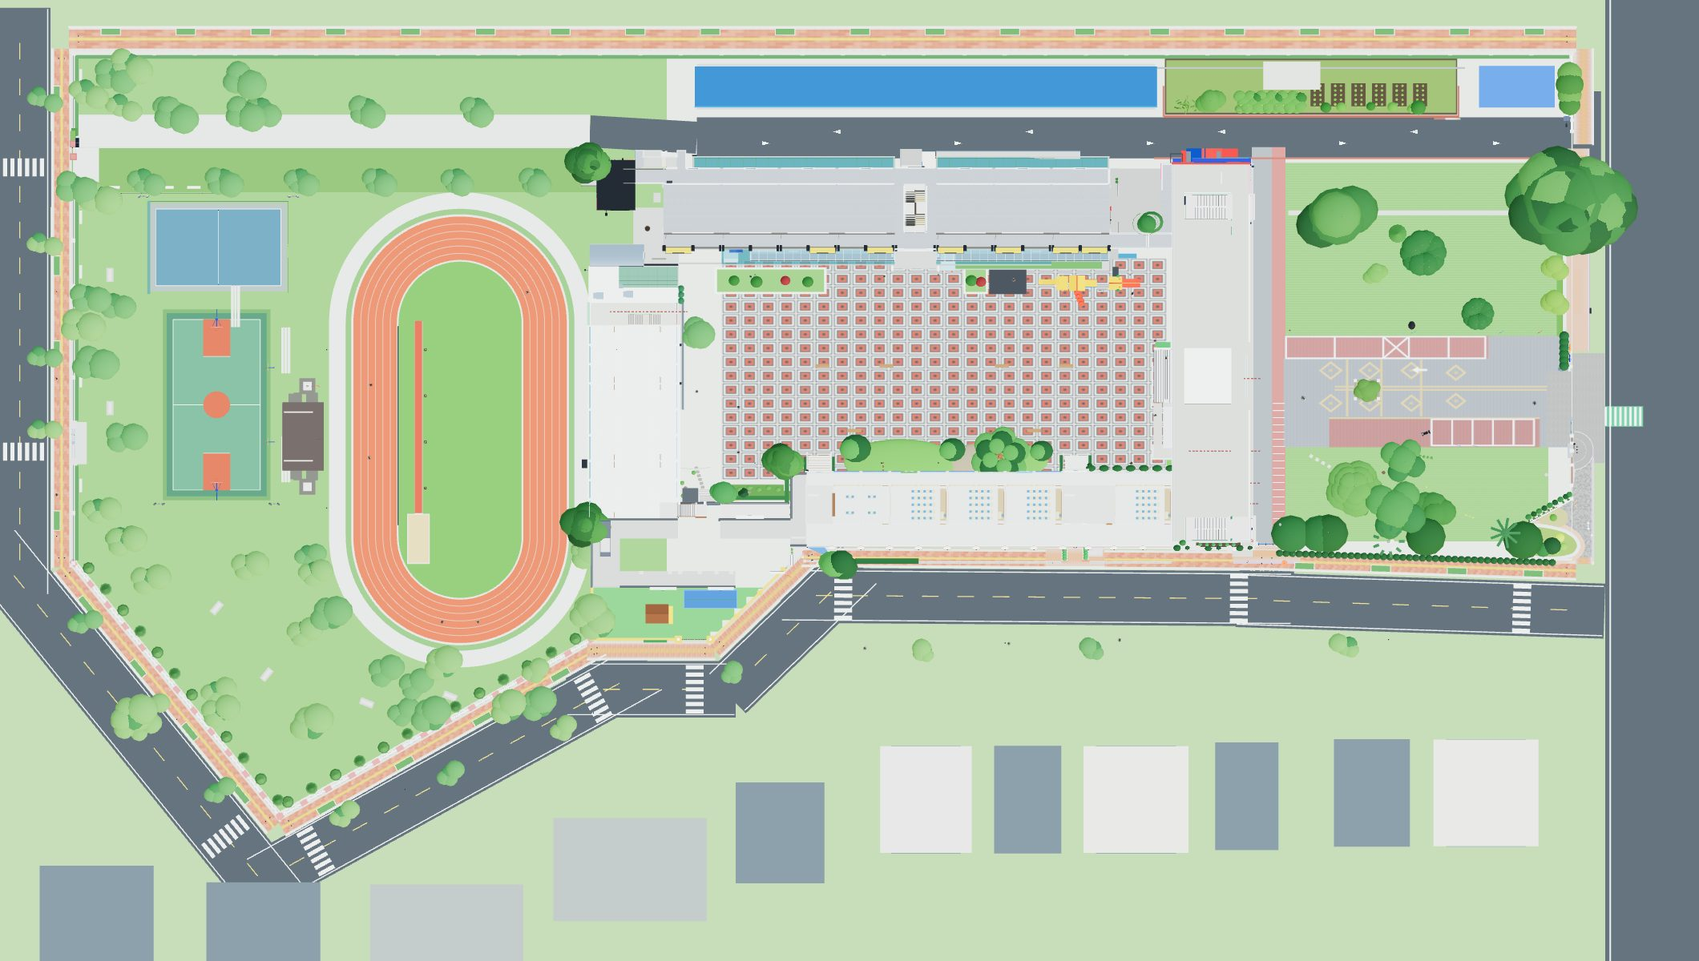
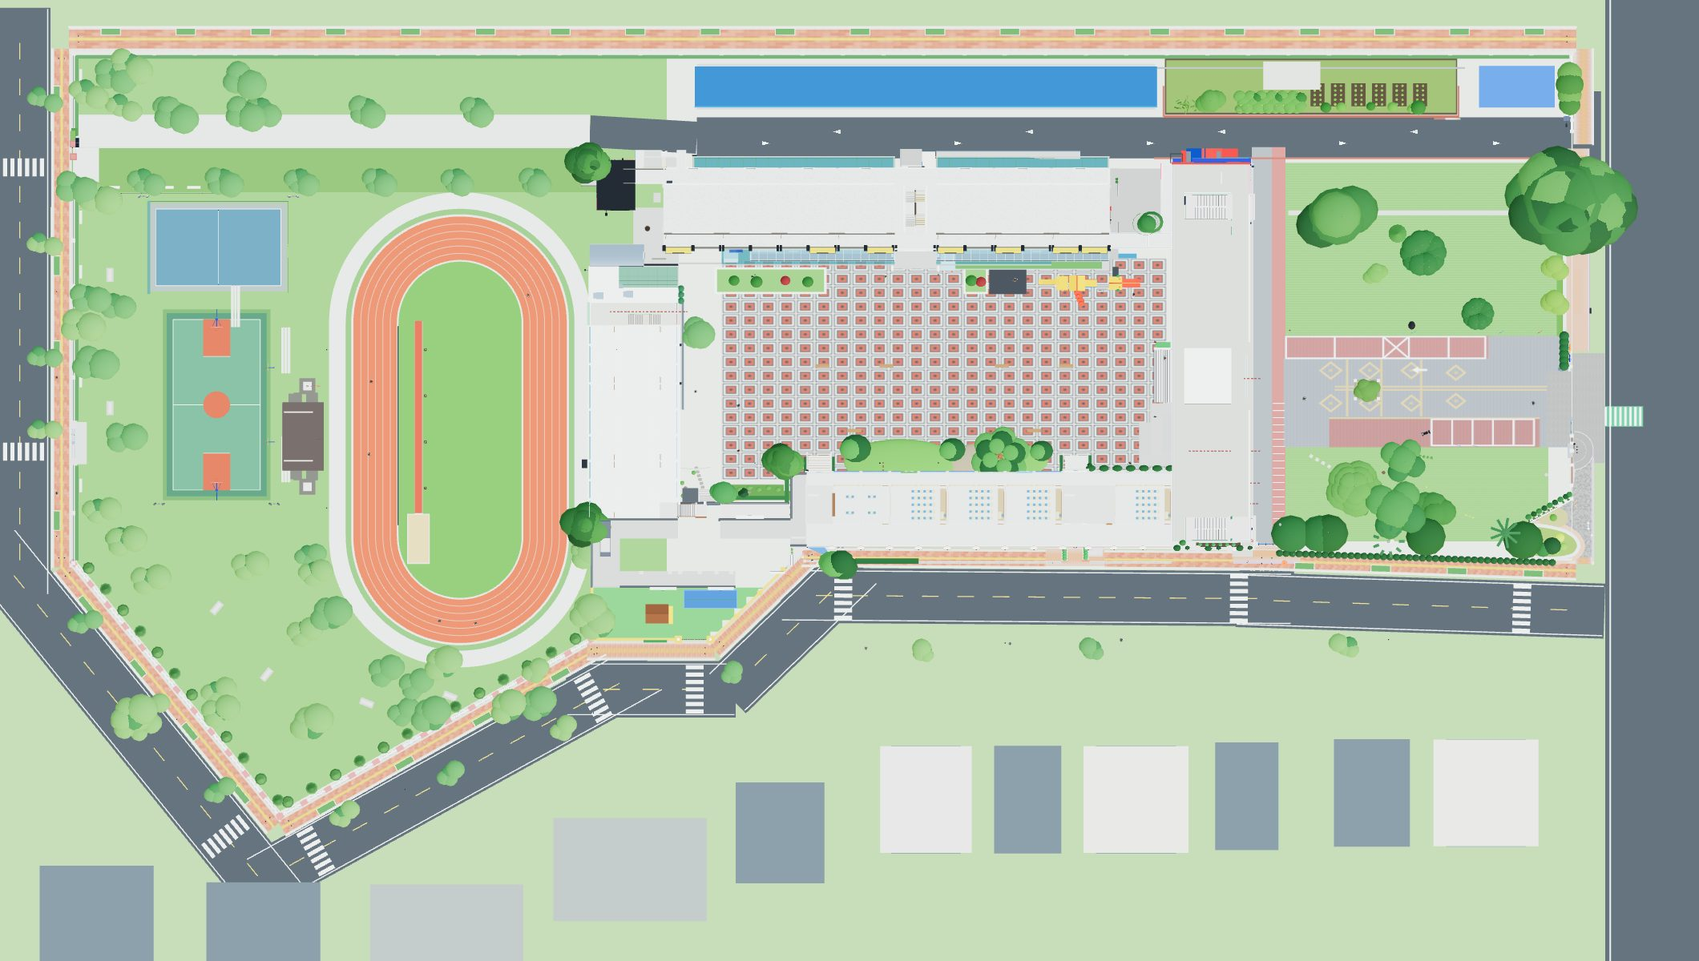
feat(east): rebuild rear (courtyard-side) south accessible ramp from site photos (v2.11.1)
The old model was a two-run switchback climbing north to the breezeway. The five
new photos (incl. one taken from the top looking north) show the top at the SOUTH
end, level with the raised 1F rear corridor, and three runs:
- Run C (inner, along the corridor): top platform at the south, down to the north
- Run B (middle, tall washed-granite retaining wall on its west side with a
  rounded NW corner): U-turn, down to the south
- Run A (outer, south half only, slightly further west, low granite curb):
  U-turn, down to the north, exiting at mid-length of the west face
Slope ~1:14.5. Stainless railings with vertical balusters, top and bottom rails
and a double inner handrail on U brackets; wheelchair sign on the NW railing.
The 1F rear corridor from the breezeway to the south building is raised to the
breezeway level (1.36 m) and its AC units moved up; the stray N-S hedge that
overlapped the ramp was removed. Admin map images regenerated.

Claude-Session: https://claude.ai/code/session_0167Rfd13qErLKZLgH1cNLB3

Changed region(s): [[0.3736, 0.1542, 0.6849, 0.2775], [0.6538, 0.4317, 0.6849, 0.4933]]

diff --git a/campus-3d.js b/campus-3d.js
@@ -7149,7 +7149,7 @@ function buildEastBuilding() {
       const cmA = AXIS_CM[i], cmB = AXIS_CM[i + 1];
       const wp = addMesh(g, new THREE.PlaneGeometry((cmB - cmA) * K * 0.78, 1.45), makeWindowMaterial(`east-rear-${k}-${i}`), xB - 0.04, yF[k] + 1.9, (cz(cmA) + cz(cmB)) / 2, false);
       wp.rotation.y = -Math.PI / 2;
-      if (k === 0 && i % 2 === 1) addBox(g, 0.3, 0.5, 0.85, acMat, xB - 0.18, yF[0] + 0.7, (cz(cmA) + cz(cmB)) / 2);
+      if (k === 0 && i % 2 === 1) addBox(g, 0.3, 0.5, 0.85, acMat, xB - 0.18, yBreezeFloor + 0.95, (cz(cmA) + cz(cmB)) / 2);   // 後走廊架高 (1.36 m) 後之冷氣機位置
     }
   }
 
@@ -7204,157 +7204,147 @@ function buildEastBuilding() {
   }
 
   // ============================================================================
-  // 東棟大樓後面 1F 無障礙樓梯與坡道系統 (依據指示與現場照片 1:1 精確還原)
-  // 動線特徵：南北走向，由北向南上坡，至南端轉折平臺迴旋 180°，再由南向北上坡直通穿堂 1F 出入口
-  // 欄杆特徵：清通明亮之水平多管式不銹鋼圓管安全護欄（頂層主扶手、次扶手、防護橫管、踢腳橫管與弧形端部）
+  // 東棟大樓背面（西側・中庭面）南段無障礙坡道（v2.11.1 依 2026 實景照片 5 張重建）
+  // 動線（照片 18 由坡道頂端向北拍攝、照片 19/20 由中庭向東拍攝、照片 17 由西北向東南拍攝）：
+  //   ・頂端平臺位於南端（緊鄰興學樓），與架高之東棟 1F 後走廊（同穿堂地坪 1.36 m）齊平
+  //   ・Run C（內側，貼後走廊）：自南端頂端平臺向北下坡 → 北端轉折平臺
+  //   ・Run B（中間，西側為高大洗石子擋土牆）：自北端平臺向南下坡 → 南端轉折平臺
+  //   ・Run A（外側，僅南半段、略向西凸出，外緣低矮洗石子緣石）：自南端平臺向北下坡，於西立面中段出口落地
+  //   ・洗石子（灰白抿石）擋土牆與圓弧收邊；不鏽鋼直立欄杆＋雙層扶手（內側扶手以 U 形支架固定）
   // ============================================================================
   {
-    const rampNorthZ = stairZ_Max + 0.10; // 北端起點與穿堂交界 (約 -2.25m)
-    const rampSouthZ = cz(AXIS_CM[4]);    // 南端平臺底緣 (約 +6.80m)
-    const landingLenZ = 2.45;             // 南端 180° 迴旋轉折平臺長度
-    const landingSouthZ = rampSouthZ;
-    const landingNorthZ = rampSouthZ - landingLenZ;
-    const landingZ = (landingSouthZ + landingNorthZ) / 2;
+    const yTop = yBreezeFloor, yGround = yCourtGround;          // 1.36 m → 0.16 m（落差 1.20 m）
+    const zN = stairZ_Max + 0.10;                                // 北端（緊鄰穿堂大台階南側）
+    const zS = cz(AXIS_CM[4]) + 0.75;                            // 南端（興學樓北側綠籬前）
+    const laneW = 1.60;
+    const xC1 = xW0 - laneW, xC2 = xW0;                          // 內側 Run C
+    const xB1 = xW0 - 2 * laneW, xB2 = xC1;                      // 中間 Run B
+    const xA1 = xW0 - 3 * laneW - 0.15, xA2 = xB1;               // 外側 Run A（略向西凸出）
+    const topLen = 2.0, landN = 1.6, landS = 1.6;
+    const zCtop = zS - topLen;                                   // Run C 南端（頂端平臺北緣）
+    const zNland = zN + landN;                                   // 北端轉折平臺南緣
+    const zSland = zS - landS;                                   // 南端轉折平臺北緣
+    const zAexit = zSland - 5.0;                                 // Run A 出口（西立面中段）
+    const lenC = zCtop - zNland, lenB = zSland - zNland, lenA = zSland - zAexit;
+    const tot = lenC + lenB + lenA;                              // 坡度約 1:14.5（符合無障礙規範 1:12 以下）
+    const y1 = yTop - (yTop - yGround) * lenC / tot;             // 北端平臺高程
+    const y2 = y1 - (yTop - yGround) * lenB / tot;               // 南端平臺高程
 
-    const slopeRunZ = landingNorthZ - rampNorthZ; // 斜坡段長度 ~6.60m
-    const slopeCenterZ = (rampNorthZ + landingNorthZ) / 2;
+    const yOnB = z => y1 + (y2 - y1) * (z - zNland) / lenB;
+    const graniteMat = new THREE.MeshStandardMaterial({ map: makeTerrazzoTexture ? makeTerrazzoTexture() : null, color: 0xcfcdc7, roughness: 0.86 });
+    const rampSurfMat = new THREE.MeshStandardMaterial({ color: 0xb4b1aa, roughness: 0.92 });   // 防滑洗石子坡面
+    const stainlessMat = new THREE.MeshStandardMaterial({ color: 0xb9bfc5, roughness: 0.28, metalness: 0.85 });   // 拉絲不鏽鋼（偏灰，避免整片泛白）
 
-    const runW = 1.35;        // 每一單向走道淨寬 1.35m
-    const divW = 0.18;        // 雙走道中央欄杆隔離帶 0.18m
-    const curbW = 0.24;       // 外側混凝土擋土側牆厚 0.24m
-
-    const xOuterWall = xW0 - (runW * 2 + divW + curbW / 2); // ~49.70m
-    const xRun1 = xOuterWall + curbW / 2 + runW / 2;        // ~50.49m (外側走道：由北向南上坡)
-    const xDiv = xRun1 + runW / 2 + divW / 2;               // ~51.25m (中央雙向分隔護欄)
-    const xRun2 = xDiv + divW / 2 + runW / 2;               // ~52.01m (內側走道：由南向北上坡)
-
-    const yLanding = yCourtGround + stairRiseTotal * 0.50;  // 南端中間平臺標高 0.76m
-    const landingW = runW * 2 + divW;
-    const landingX = (xRun1 + xRun2) / 2;
-
-    const concMat = new THREE.MeshStandardMaterial({ color: 0xd8d5cd, roughness: 0.82 });      // 洗石子混凝土
-    const rampFloorMat = new THREE.MeshStandardMaterial({ color: 0xbebab0, roughness: 0.65 }); // 坡道防滑地坪
-    const stainlessMat = new THREE.MeshStandardMaterial({ color: 0xf2f5f8, roughness: 0.18, metalness: 0.90 }); // 明亮拉絲不鏽鋼
-
-    // (1) 外側第一段坡道 Run 1 (由北向南上坡：自北端中庭 0.16m 爬升至南端平臺 0.76m)
-    const run1Angle = -Math.atan2(yLanding - yCourtGround, slopeRunZ);
-    const run1Mesh = addBox(g, runW, 0.12, Math.hypot(slopeRunZ, yLanding - yCourtGround), rampFloorMat, xRun1, (yCourtGround + yLanding) / 2, slopeCenterZ, false);
-    run1Mesh.rotation.x = run1Angle;
-
-    // 外側實體混凝土擋土側牆 (自北向南隨坡道平順斜升)
-    {
-      const wallShape = new THREE.Shape();
-      wallShape.moveTo(0, yCourtGround);
-      wallShape.lineTo(slopeRunZ, yLanding);
-      wallShape.lineTo(slopeRunZ, yLanding + 0.38);
-      wallShape.lineTo(0, yCourtGround + 0.22);
-      wallShape.closePath();
-      const extrudeSettings = { depth: curbW, bevelEnabled: false };
-      const outerWallGeo = new THREE.ExtrudeGeometry(wallShape, extrudeSettings);
-      const outerWallMesh = addMesh(g, outerWallGeo, concMat, xOuterWall - curbW / 2, 0, rampNorthZ);
-      outerWallMesh.rotation.y = Math.PI / 2;
-    }
-
-    // (2) 南端 180° 迴旋轉折中間平臺 (Landing at y = 0.76m)
-    addBox(g, landingW + curbW, yLanding - yCourtGround, landingLenZ, concMat, landingX - curbW / 2, yCourtGround + (yLanding - yCourtGround) / 2, landingZ);
-    addBox(g, landingW, 0.12, landingLenZ, rampFloorMat, landingX, yLanding + 0.06, landingZ, false);
-
-    // 平臺南端與西側防護水泥矮牆
-    addBox(g, landingW + curbW, 0.85, 0.26, wallMat, landingX - curbW / 2, yLanding + 0.425, landingSouthZ - 0.13);
-    addBox(g, curbW, 0.78, landingLenZ, concMat, xOuterWall, yLanding + 0.39, landingZ);
-
-    // (3) 內側第二段坡道 Run 2 (再由南向北上坡：自南端平臺 0.76m 爬升至北端穿堂出入口 1.36m)
-    const run2Angle = Math.atan2(yBreezeFloor - yLanding, slopeRunZ);
-    const run2Mesh = addBox(g, runW, 0.12, Math.hypot(slopeRunZ, yBreezeFloor - yLanding), rampFloorMat, xRun2, (yLanding + yBreezeFloor) / 2, slopeCenterZ, false);
-    run2Mesh.rotation.x = run2Angle;
-
-    // 內側 1F 穿堂銜接延伸平臺 (串聯穿堂出口與東棟 1F 走廊)
-    addBox(g, runW, 0.20, slopeRunZ + 1.2, concMat, xRun2, yBreezeFloor - 0.10, slopeCenterZ, false);
-
-    // (4) 北端起點引導區與國際無障礙藍色標誌牌 (緊鄰中央階梯南側)
-    addBox(g, curbW, 0.65, 0.45, concMat, xOuterWall, yCourtGround + 0.325, rampNorthZ + 0.22);
-    const wcSignMat = new THREE.MeshBasicMaterial({ map: makeWheelchairSignTexture() });
-    const wcSign = addMesh(g, new THREE.PlaneGeometry(0.55, 0.42), wcSignMat, xOuterWall - curbW / 2 - 0.015, yCourtGround + 0.45, rampNorthZ + 0.22, false);
-    wcSign.rotation.y = -Math.PI / 2; // 正對中庭西向
-
-    // (5) 不銹鋼水平多管式無障礙安全欄杆系統 (5道水平管＋垂直立柱＋弧形下彎收頭)
-    const addHorizontalRampRail = (railX, startY, endY, startZ, endZ, hasEndDrop = true) => {
-      const railLen = Math.hypot(endZ - startZ, endY - startY);
-      const railAngle = Math.atan2(endY - startY, endZ - startZ);
-      const midY = (startY + endY) / 2;
-      const midZ = (startZ + endZ) / 2;
-
-      // 1. 頂層主手扶管 (直徑 5cm 圓管，距地面 0.85m)
-      const topRail = addBox(eastDetailGroup, 0.05, 0.05, railLen, stainlessMat, railX, midY + 0.85, midZ, false);
-      topRail.rotation.x = railAngle;
-
-      // 2. 次層輪椅/學童輔助扶手管 (直徑 3.8cm 圓管，距地面 0.65m)
-      const midRail = addBox(eastDetailGroup, 0.038, 0.038, railLen, stainlessMat, railX, midY + 0.65, midZ, false);
-      midRail.rotation.x = railAngle;
-
-      // 3. 中間第 1 道水平防護橫管 (直徑 2.8cm，距地面 0.46m)
-      const guard1 = addBox(eastDetailGroup, 0.028, 0.028, railLen, stainlessMat, railX, midY + 0.46, midZ, false);
-      guard1.rotation.x = railAngle;
-
-      // 4. 中間第 2 道水平防護橫管 (直徑 2.8cm，距地面 0.28m)
-      const guard2 = addBox(eastDetailGroup, 0.028, 0.028, railLen, stainlessMat, railX, midY + 0.28, midZ, false);
-      guard2.rotation.x = railAngle;
-
-      // 5. 底層踢腳防滑防護橫管 (直徑 2.5cm，距地面 0.10m)
-      const botRail = addBox(eastDetailGroup, 0.025, 0.025, railLen, stainlessMat, railX, midY + 0.10, midZ, false);
-      botRail.rotation.x = railAngle;
-
-      // 6. 垂直主支撐立柱 (直徑 4.8cm 方/圓管，間距約 1.15m)
-      const nPosts = Math.max(2, Math.round(railLen / 1.15));
-      for (let p = 0; p <= nPosts; p++) {
-        const frac = p / nPosts;
-        const pz = startZ + frac * (endZ - startZ);
-        const py = startY + frac * (endY - startY);
-        addBox(eastDetailGroup, 0.048, 0.88, 0.048, stainlessMat, railX, py + 0.44, pz, false);
-      }
-
-      // 7. 起迄端部向下圓弧彎折收頭
-      if (hasEndDrop) {
-        addBox(eastDetailGroup, 0.045, 0.22, 0.045, stainlessMat, railX, startY + 0.74, startZ, false);
-        addBox(eastDetailGroup, 0.045, 0.22, 0.045, stainlessMat, railX, endY + 0.74, endZ, false);
-      }
+    // 依坡面剖面（z, y）沿 x 擠出的實心洗石子量體：頂面即坡面
+    const fillBlock = (x1, x2, za, ya, zb_, yb_, ytopExtra = 0) => {
+      const shp = new THREE.Shape();
+      shp.moveTo(za, 0); shp.lineTo(zb_, 0); shp.lineTo(zb_, yb_ + ytopExtra); shp.lineTo(za, ya + ytopExtra); shp.closePath();
+      const geo = new THREE.ExtrudeGeometry(shp, { depth: x2 - x1, bevelEnabled: false });
+      const m = addMesh(g, geo, graniteMat, x2, 0, 0);
+      m.rotation.y = -Math.PI / 2;     // 形狀 x→世界 z；擠出 (+z_local) 轉為 -x_world，故自 x2 往西擠出至 x1
+      return m;
+    };
+    const slopeSurface = (x1, x2, za, ya, zb_, yb_) => {
+      const len = Math.hypot(zb_ - za, yb_ - ya);
+      const s = addBox(g, x2 - x1 - 0.02, 0.04, len, rampSurfMat, (x1 + x2) / 2, (ya + yb_) / 2 + 0.02, (za + zb_) / 2, false);
+      s.rotation.x = -Math.atan2(yb_ - ya, zb_ - za);
     };
 
-    // A. 外走道西側護欄 (由北端起點向南爬升至南端平臺)
-    addHorizontalRampRail(xRun1 - runW / 2 + 0.04, yCourtGround, yLanding, rampNorthZ, landingNorthZ);
+    // 1) 架高 1F 後走廊（穿堂南側至興學樓）：與穿堂同高 1.36 m，西緣為坡道 Run C 之擋土側
+    addBox(g, xB - xW0 - 0.04, yTop - y0, zS + 0.9 - (zN - 0.1), passageFloorMat, (xW0 + xB) / 2, y0 + (yTop - y0) / 2, (zS + 0.9 + zN - 0.1) / 2, false);
 
-    // B. 南端迴旋平臺西側與南側護欄 (平臺水平防護)
-    addHorizontalRampRail(xRun1 - runW / 2 + 0.04, yLanding, yLanding, landingNorthZ, landingSouthZ, false);
+    // 2) 頂端平臺（Run C 南端）與坡道量體
+    fillBlock(xC1, xC2, zCtop, yTop, zS, yTop);
+    addBox(g, xC2 - xC1 - 0.02, 0.04, topLen, rampSurfMat, (xC1 + xC2) / 2, yTop + 0.02, (zCtop + zS) / 2, false);
+    fillBlock(xC1, xC2, zNland, y1, zCtop, yTop);
+    slopeSurface(xC1, xC2, zNland, y1, zCtop, yTop);
+    // 北端轉折平臺（C＋B 兩道寬）
+    fillBlock(xB1, xC2, zN, y1, zNland, y1);
+    addBox(g, xC2 - xB1 - 0.02, 0.04, landN, rampSurfMat, (xB1 + xC2) / 2, y1 + 0.02, (zN + zNland) / 2, false);
+    // Run B：北端平臺 → 南端平臺
+    fillBlock(xB1, xB2, zNland, y1, zSland, y2);
+    slopeSurface(xB1, xB2, zNland, y1, zSland, y2);
+    // 南端轉折平臺（B＋A 兩道寬）
+    fillBlock(xA1, xB2, zSland, y2, zS, y2);
+    addBox(g, xB2 - xA1 - 0.02, 0.04, landS, rampSurfMat, (xA1 + xB2) / 2, y2 + 0.02, (zSland + zS) / 2, false);
+    // Run A：南端平臺 → 西立面中段出口（落地）
+    fillBlock(xA1, xA2, zAexit, yGround, zSland, y2);
+    slopeSurface(xA1, xA2, zAexit, yGround, zSland, y2);
+
+    // 3) 洗石子擋土牆與緣石（照片：高大圓弧收邊擋土牆、外側低矮緣石）
+    const wallT = 0.22;
+    // Run B 西側高擋土牆（北段，Run A 以北）：頂面高出坡面 0.12 m，北端圓弧轉角
+    fillBlock(xB1 - wallT, xB1, zN + wallT, y1 + 0.12, zAexit, yOnB(zAexit) + 0.12);
     {
-      const topS = addBox(g, landingW, 0.05, 0.05, stainlessMat, landingX, yLanding + 0.85, landingSouthZ - 0.06, false);
-      const midS = addBox(g, landingW, 0.038, 0.038, stainlessMat, landingX, yLanding + 0.65, landingSouthZ - 0.06, false);
-      const g1S = addBox(g, landingW, 0.028, 0.028, stainlessMat, landingX, yLanding + 0.46, landingSouthZ - 0.06, false);
-      const g2S = addBox(g, landingW, 0.028, 0.028, stainlessMat, landingX, yLanding + 0.28, landingSouthZ - 0.06, false);
-      const botS = addBox(g, landingW, 0.025, 0.025, stainlessMat, landingX, yLanding + 0.10, landingSouthZ - 0.06, false);
-      for (let p = -1; p <= 1; p++) {
-        addBox(g, 0.048, 0.88, 0.048, stainlessMat, landingX + p * (landingW / 2 - 0.08), yLanding + 0.44, landingSouthZ - 0.06, false);
+      // 西北角圓弧收邊（照片 17：擋土牆北端為圓角）
+      const hN = y1 + 0.12;
+      addMesh(g, new THREE.CylinderGeometry(wallT, wallT, hN, 16, 1, false, Math.PI, Math.PI / 2), graniteMat, xB1, hN / 2, zN + wallT);
+      addBox(g, 0.02, hN, wallT, graniteMat, xB1 - 0.01, hN / 2, zN + wallT / 2);   // 補齊圓角與平臺量體間縫隙
+    }
+    // Run A 外側低矮緣石（高出坡面 0.18 m）
+    fillBlock(xA1 - 0.18, xA1, zAexit, yGround + 0.18, zSland, y2 + 0.18);
+    addBox(g, 0.18, y2 + 0.18, landS, graniteMat, xA1 - 0.09, (y2 + 0.18) / 2, (zSland + zS) / 2);
+    // 南端擋土牆（面向興學樓）
+    addBox(g, xC2 - (xA1 - 0.18), yTop + 0.12, 0.22, graniteMat, (xA1 - 0.18 + xC2) / 2, (yTop + 0.12) / 2, zS + 0.11);
+    // Run A / Run B 之間、Run B / Run C 之間、Run C / 走廊之間的高差立牆（由坡面量體本身形成）
+
+    // 4) 不鏽鋼直立欄杆（頂扶手＋U 形支架內扶手＋底橫桿＋約 12 cm 間距直立欄柱）
+    const railing = (x, za, ya, zb_, yb_, opts = {}) => {
+      const h = opts.h || 0.95, dz = zb_ - za, dy = yb_ - ya, len = Math.hypot(dz, dy), ang = -Math.atan2(dy, dz);
+      const midZ = (za + zb_) / 2, midY = (ya + yb_) / 2;
+      if (opts.posts !== false) {
+        const top = addBox(eastDetailGroup, 0.05, 0.05, len, stainlessMat, x, midY + h, midZ, false); top.rotation.x = ang;
+        const bot = addBox(eastDetailGroup, 0.035, 0.035, len, stainlessMat, x, midY + 0.10, midZ, false); bot.rotation.x = ang;
       }
-    }
-
-    // C. 中央雙走道分隔護欄 (介於 Run 1 與 Run 2 之間，由北端向南爬升)
-    addHorizontalRampRail(xDiv, yCourtGround, yLanding, rampNorthZ, landingNorthZ);
-
-    // D. 內走道東側護欄 (由南端平臺向北爬升至穿堂出口)
-    addHorizontalRampRail(xRun2 + runW / 2 - 0.04, yLanding, yBreezeFloor, landingNorthZ, rampNorthZ);
-
-    // E. 北端地面起點引導扶手 (靠近中央階梯處)
+      if (opts.handrail !== false) {
+        const off = opts.side || 0.09;
+        const hr = addBox(eastDetailGroup, 0.042, 0.042, len, stainlessMat, x + off, midY + 0.78, midZ, false); hr.rotation.x = ang;
+        const hr2 = addBox(eastDetailGroup, 0.035, 0.035, len, stainlessMat, x + off, midY + 0.62, midZ, false); hr2.rotation.x = ang;
+        const nB = Math.max(2, Math.round(len / 1.2));
+        for (let i = 0; i <= nB; i++) {
+          const f = i / nB, pz = za + dz * f, py = ya + dy * f;
+          addBox(eastDetailGroup, Math.abs(off), 0.025, 0.025, stainlessMat, x + off / 2, py + 0.70, pz, false);   // U 形支架
+        }
+      }
+      const nP = opts.posts === false ? -1 : Math.max(3, Math.round(len / 0.14));
+      for (let i = 0; i <= nP; i++) {
+        const f = i / nP, pz = za + dz * f, py = ya + dy * f;
+        const thick = (i % 10 === 0) ? 0.045 : 0.022;                                                            // 每 1.2 m 一支主柱
+        addBox(eastDetailGroup, thick, h - 0.05, thick, stainlessMat, x, py + 0.05 + (h - 0.05) / 2, pz, false);
+      }
+    };
+    const railingX = (z, xa, xb_, y, h = 0.95) => {     // 沿 x 方向的水平欄杆（平臺端部）
+      const len = xb_ - xa, cx = (xa + xb_) / 2;
+      addBox(eastDetailGroup, len, 0.05, 0.05, stainlessMat, cx, y + h, z, false);
+      addBox(eastDetailGroup, len, 0.035, 0.035, stainlessMat, cx, y + 0.10, z, false);
+      const nP = Math.max(3, Math.round(len / 0.14));
+      for (let i = 0; i <= nP; i++) addBox(eastDetailGroup, i % 10 === 0 ? 0.045 : 0.022, h - 0.05, i % 10 === 0 ? 0.045 : 0.022, stainlessMat, xa + len * i / nP, y + 0.05 + (h - 0.05) / 2, z, false);
+    };
+    // 後走廊西緣（走廊與 Run C 之間）：水平欄杆（走廊高程）
+    railing(xC2 + 0.02, zN, yTop, zS, yTop, { handrail: false });
+    // Run C 內側扶手（貼走廊擋牆）
+    railing(xC2 - 0.06, zNland, y1, zCtop, yTop, { side: -0.09 });
+    // Run C / Run B 之間（沿 Run C 高程）
+    railing(xC1, zNland, y1, zCtop, yTop, { side: 0.09 });
+    // Run B 西緣：北端平臺＋北段擋土牆頂（含無障礙標誌牌）、南段 Run B / Run A 之間
+    railing(xB1 - 0.08, zN + 0.3, y1, zNland, y1, { side: 0.09 });
+    railing(xB1 - 0.08, zNland, y1, zSland, y2, { side: 0.09 });
+    // Run A 外緣（緣石上）與出口端
+    railing(xA1 - 0.09, zAexit + 0.25, yGround + 0.18 + 0.02, zSland, y2 + 0.18, { side: 0.09 });
+    railing(xA1 - 0.09, zSland, y2 + 0.18, zS, y2 + 0.18, { handrail: false });
+    // Run A 東側（與 Run B 擋牆之間）內扶手
+    railing(xA2 - 0.05, zAexit + 0.25, yGround, zSland, y2, { side: -0.09, posts: false });
+    // 北端平臺北緣、頂端平臺南緣
+    railingX(zN + 0.05, xB1 - 0.08, xC2, y1);
+    // 國際無障礙標誌牌（照片：北端外側欄杆上、面向中庭）
     {
-      const entryZ = rampNorthZ - 0.40;
-      addBox(g, 0.05, 0.05, 0.40, stainlessMat, xRun1 - runW / 2 - 0.15, yCourtGround + 0.85, rampNorthZ - 0.20, false);
-      addBox(g, 0.048, 0.85, 0.048, stainlessMat, xRun1 - runW / 2 - 0.15, yCourtGround + 0.425, entryZ, false);
-      addBox(g, 0.05, 0.05, 0.40, stainlessMat, xDiv + 0.15, yCourtGround + 0.85, rampNorthZ - 0.20, false);
-      addBox(g, 0.048, 0.85, 0.048, stainlessMat, xDiv + 0.15, yCourtGround + 0.425, entryZ, false);
+      const wcSignMat = new THREE.MeshBasicMaterial({ map: makeWheelchairSignTexture() });
+      const sign = addMesh(g, new THREE.PlaneGeometry(0.45, 0.45), wcSignMat, xB1 - 0.12, y1 + 0.70, zN + 0.65, false);
+      sign.rotation.y = -Math.PI / 2;
     }
+    window.EAST_REAR_RAMP = { xA1, xB1, xC1, xC2, zN, zS, zNland, zSland, zCtop, zAexit, y1, y2, yTop, yGround };
   }
 
-  // 南側綠籬花台矮牆 (實景修剪平整綠籬)
-  addBox(g, 0.35, 0.65, 380 * K, mats.corridorTerrazzo, xW0 - 3.8, 0.32, cz(500));
-  addBox(g, 1.1, 0.7, 380 * K, mats.greenAccent, xW0 - 4.45, 0.35, cz(500));
 
   // (中庭遊戲器材已統一移至 playground-zone 1:1 準確還原)
   // (北端鄰棟銜接走廊與假體已依現場照片精緻化並移除干擾方塊，不繪製任何車輛)

diff --git a/index.html b/index.html
@@ -43,7 +43,7 @@ window.__updateProgress(15, '正在啟動三維校園引擎...');
 if ('serviceWorker' in navigator) {
   window.addEventListener('DOMContentLoaded', () => {
     window.__updateProgress(25, '校園核心樣式就緒...');
-    navigator.serviceWorker.register('./sw.js?v=2.11.0').then(reg => {
+    navigator.serviceWorker.register('./sw.js?v=2.11.1').then(reg => {
       reg.update();
     }).catch(() => {});
     navigator.serviceWorker.addEventListener('controllerchange', () => {
@@ -76,7 +76,7 @@ document.addEventListener('click', function(e) {
 </script>
 <!-- modulepreload 必須放在 importmap 之後，否則瀏覽器會在 import map 生效前解析 "three" 而失敗 -->
 <link rel="modulepreload" href="./vendor/three/three.module.js">
-<link rel="modulepreload" href="./campus-3d.js?v=2.11.0">
+<link rel="modulepreload" href="./campus-3d.js?v=2.11.1">
 <style>
   /* ==========================================================================
      PKU-3D ("燕园 · 循图，走进燕园") Editorial Design System
@@ -3635,6 +3635,6 @@ document.addEventListener('click', function(e) {
 <script src="./vendor/qrcode.min.js"></script>
 <script src="./data/spots.js"></script>
 <script src="./campus-ui.js?v=2.10.1"></script>
-<script type="module" src="./campus-3d.js?v=2.11.0"></script>
+<script type="module" src="./campus-3d.js?v=2.11.1"></script>
 </body>
 </html>

diff --git a/sw.js b/sw.js
@@ -1,7 +1,7 @@
 // 屏東縣屏東市復興國小 3D 數位校園 (Service Worker)
-// Version: fuxing-3d-campus-v2.11.0
+// Version: fuxing-3d-campus-v2.11.1
 
-const CACHE_NAME = 'fuxing-3d-campus-v2.11.0';
+const CACHE_NAME = 'fuxing-3d-campus-v2.11.1';
 
 // 核心極速快取清單 (App Shell + 3D 引擎 + 1:1 2.5D 高清預覽底圖 + 核心平面圖 + 離線 QR Code)
 const PRECACHE_ASSETS = [
